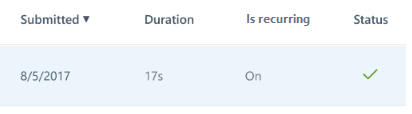
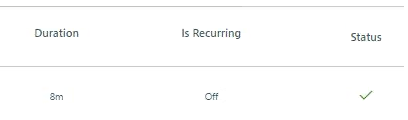
update images per Anji

diff --git a/WorkplaceAnalytics/Tutorials/Query-auto-refresh.md b/WorkplaceAnalytics/Tutorials/Query-auto-refresh.md
@@ -67,7 +67,7 @@ Follow these steps only for a query that has already run and for which auto-refr
 
  * You can start or stop auto-refresh for a query at any time. See [Stop the auto-refresh option](#stop-the-auto-refresh-option) and [Start/re-start the auto-refresh option](#startre-start-the-auto-refresh-option). 
 
- * The auto-refresh option of a query expires after two months. The **Auto refresh** column on the **Queries > Results** page shows whether auto-refresh is currently turned on for the query represented by that row:
+ * The auto-refresh option of a query expires after two months. The **Is Recurring** column on the **Queries > Results** page shows whether auto-refresh is currently turned on for the query represented by that row:
 
    ![Turn off auto-refresh status](../images/wpa/tutorials/auto-status-48.png)
 
